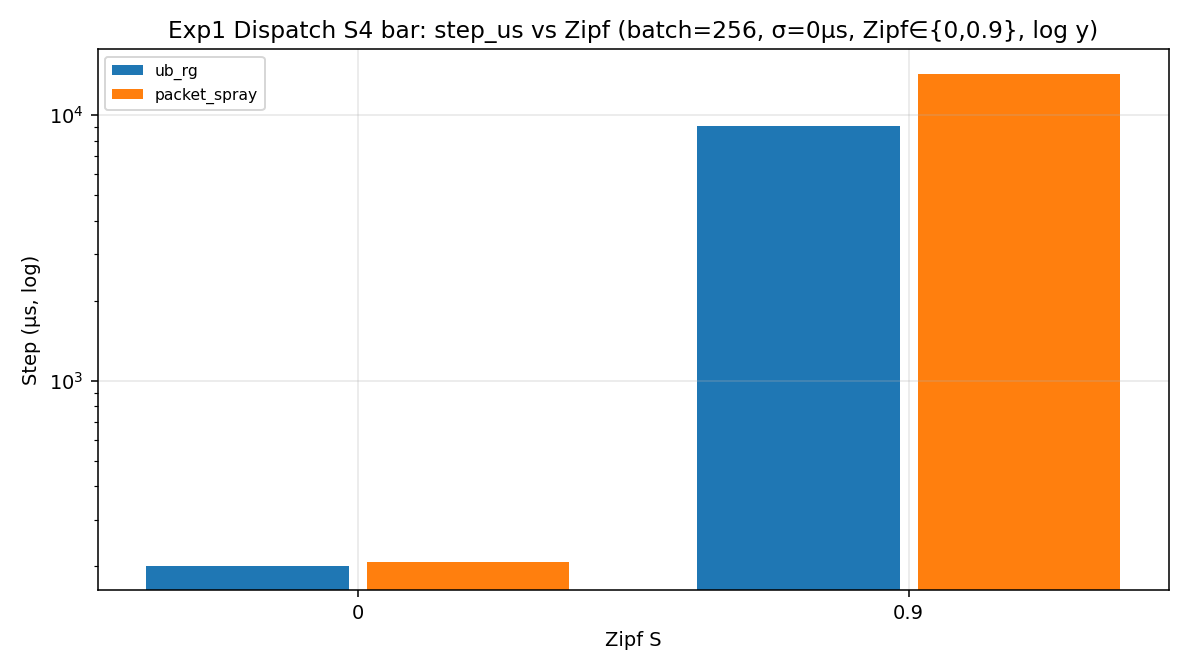
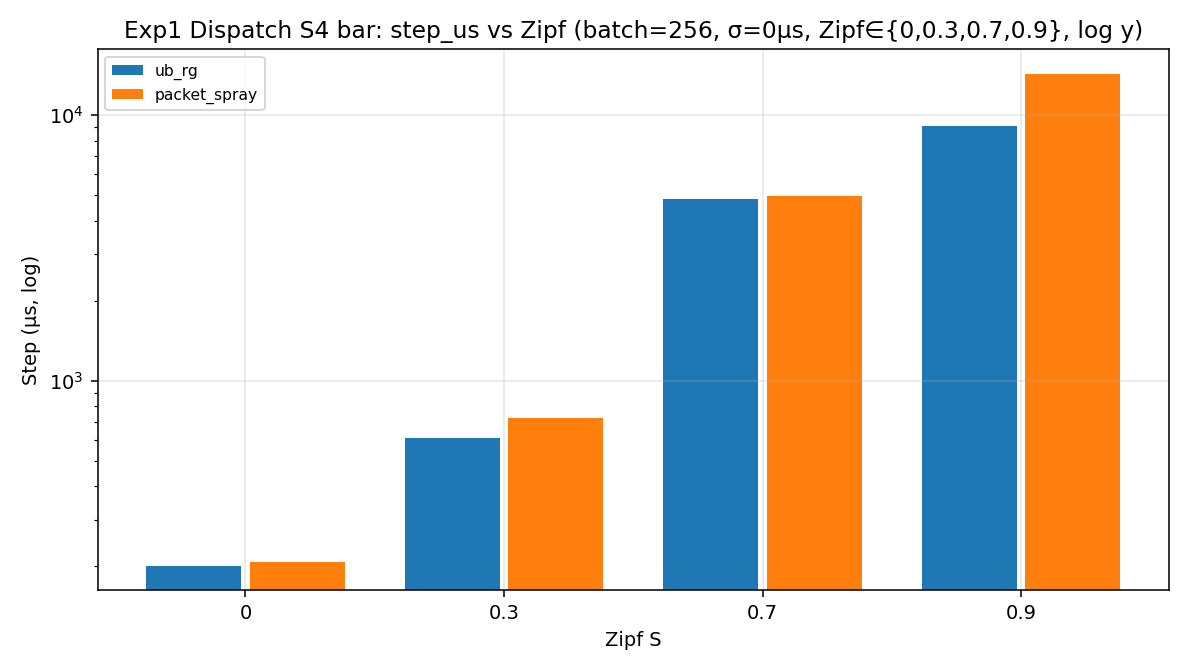
Regenerate packet UB_RG report after S4 mid-Zipf and Exp3 PDF fill.

Changed region(s): [[0.5597, 0.0938, 0.8706, 0.9375], [0.1866, 0.625, 0.5286, 0.9375], [0.0933, 0.0312, 0.9639, 0.0625]]

diff --git a/docs/UB_RG仿真报告.html b/docs/UB_RG仿真报告.html
@@ -6,7 +6,7 @@
 <ul>
 <li><strong>配置包输出差异</strong>（Exp1，按 batch 分列，不跨 batch 平均 step）：batch=16：POP/RG=<strong>1.010×</strong>，Spray/RG=<strong>1.006×</strong>；batch=256：POP/RG=<strong>0.991×</strong>，Spray/RG=<strong>1.587×</strong>，POP2/RG 平均为 <strong>0.990×</strong>。这是当前配置包的联合差异；plane、path delay、jitter 和 barrier 尚未统一，不能把比值单独归因于目的侧配速（见 §1.1）。</li>
 <li><strong>POP 启动开销会被负载摊薄</strong>：batch=16 时 POP/RG=<strong>1.010×</strong>，batch=256 时为 <strong>0.991×</strong>；结果符合“多一次 one-way 启动、稳态节拍与 RG 相同”的模型预期。</li>
-<li><strong>瓶颈下界</strong>：CCT/König 中位数为 ub_rg=2.575、ub_rg_pop=2.617、ub_rg_pop2=2.633、packet_spray=8.800；它证明输出符合当前方程，但不是排除混杂后的硬件性能验证。</li>
+<li><strong>瓶颈下界</strong>：CCT/König 中位数为 ub_rg=2.622、ub_rg_pop=2.617、ub_rg_pop2=2.633、packet_spray=2.511；它证明输出符合当前方程，但不是排除混杂后的硬件性能验证。</li>
 <li><strong>拓扑范围</strong>：主矩阵为场景1（Clos+iSLIP）与场景4（Sparse CLOS 512P）。</li>
 <li><strong>Exp3</strong>：端到端含 GEMV；<code>gemv_us</code> 随 Zipf 热点与 batch 变化。</li>
 <li>当前 UB_RG 配置包的 CCT 更接近自定义 König 下界；与 Spray 的比值是<strong>配置包联合差异</strong>，不是“仅改目的侧准入”的受控因果结论（原因见 §1.1）。</li>
@@ -166,7 +166,7 @@
 </tbody></table>
 <blockquote>本报告不单独展示 Combine（<code>exp2_combine</code>）扫参；Combine 仅作为 Exp3 roundtrip 的后半段计入系统 CCT。</blockquote>
 <br/>
-<p>引擎：<strong>packet</strong>；成功汇总运行数：<strong>611</strong>。原始结果：<code>results/ub_rg_packet/</code>。</p>
+<p>引擎：<strong>packet</strong>；成功汇总运行数：<strong>1387</strong>。原始结果：<code>results/ub_rg_packet/</code>。</p>
 <blockquote>上表对齐当前 runner：仅场景1+4；启动偏差为 N(0,σ²)（σ∈{0,2,4,8}）；场景1 含 iSLIP；Exp3 输出 gemv_us/e2e_us。旧场景2/3 结果请忽略。</blockquote>
 <blockquote>逐包引擎按风险路径裁剪（S4 主扫为 ub_rg/packet_spray × 部分 Zipf/σ；若干 ep512 曾 timeout）。本报告<strong>只含本引擎</strong>表与图，不回退嵌入行为级 PDF/KPI。</blockquote>
 <h2>3. 实验1：倾斜专家流量下的 Dispatch</h2>
@@ -226,6 +226,8 @@ zipf_s
 scheme packet_spray    ub_rg ub_rg_pop packet_spray  ub_rg ub_rg_pop packet_spray  ub_rg ub_rg_pop packet_spray    ub_rg ub_rg_pop   packet_spray     ub_rg ub_rg_pop
 zipf_s
 0.0          209.45   210.58    200.48       124.12  99.38    104.24       111.33  77.83     84.11       213.45   211.78    201.68       35908.57  35784.57  37491.73
+0.3          733.86   591.37       NaN       150.73  92.37       NaN       134.58  74.31       NaN       737.86   592.57       NaN       10246.05  12716.28       NaN
+0.7         4799.99  4792.24       NaN       108.89  70.19       NaN        62.51  47.46       NaN      4803.99  4793.44       NaN        1567.21   1568.42       NaN
 0.9        14015.00  8325.16       NaN       101.53  66.47       NaN        45.97  31.41       NaN     14019.00  8326.36       NaN         536.42    909.28       NaN
 </code></pre>
 <p><img alt='exp1_dispatch_s4_bar_step_vs_zipf_b16_nsk0.png' src='../results/ub_rg_packet/figures/exp1_dispatch_s4_bar_step_vs_zipf_b16_nsk0.png'></p>
@@ -245,11 +247,60 @@ zipf_s
 <li><strong>场景4</strong> Sparse CLOS：EP ∈ {128, 256, 512}；PDF batch∈{16,64,128,256,512}</li>
 </ul>
 <p>每场景单独出 PDF（每个 (EP, Zipf S) 一张）；另附跨场景对比图（S1-EP128 / S4-EP512）。<strong>颜色区分方案</strong>（ub_rg / ub_rg_pop / ub_rg_pop2 / packet_spray / islip），<strong>线型区分 batch</strong>（16 实线、64 虚线、128 点划、256 密虚线、512 点线）。</p>
-<p>_（本引擎尚无 <code>exp3_pdf</code> 系统 CCT 样本；Exp3 请看下方 roundtrip step 汇总。补齐：<code>python3 run_ub_rg_experiments.py --engine packet --exp3-pdf</code>）_</p>
+<p><strong>系统 CCT 样本统计（µs，mean/std/count）</strong>——按 batch 分表，不把不同 batch 混在一张表里。</p>
+<p><strong>batch=16</strong></p>
+<br/>
+<pre><code>                                mean                  std               count
+scheme                  packet_spray   ub_rg packet_spray  ub_rg packet_spray ub_rg
+scenario ep_size zipf_s
+1        32      0.0           40.92   42.25         4.37   4.21           16    16
+                 0.9           45.85   51.05         4.59   4.66           16    16
+         64      0.0           44.93   45.96         3.77   3.78           16    16
+                 0.9           67.68   88.84         4.93  11.44           16    16
+         128     0.0           49.59   50.72         3.18   3.23           16    16
+                 0.9          111.70  135.56         5.42   6.70           16    16
+4        128     0.0           63.85  264.95         3.16   3.13           16    16
+                 0.9          282.01  459.21         5.82   6.99           16    16
+         256     0.0           57.28  258.24         2.98   2.97           16    16
+                 0.9          268.38  441.72         6.34   6.79           16    16
+         512     0.0           56.76   57.81         5.05   5.12           16    16
+                 0.9          322.70  354.78         4.99   8.83           16    16
+</code></pre>
+<p><strong>batch=256</strong></p>
+<br/>
+<pre><code>                                mean                    std                 count
+scheme                  packet_spray     ub_rg packet_spray    ub_rg packet_spray ub_rg
+scenario ep_size zipf_s
+1        32      0.0          224.54    329.45         3.46     8.92           16    16
+                 0.9          642.54    707.28        12.63    15.12           16    16
+         64      0.0          231.00    324.69         3.62     9.97           16    16
+                 0.9         1790.14   1277.08       125.46    23.81           16    16
+         128     0.0          238.44    327.62         3.89     7.23           16    16
+                 0.9         3825.50   2339.82      1915.64    69.70           16    16
+4        128     0.0         6462.98   1192.80       851.68   257.05           16    16
+                 0.9        14745.33  10980.46      2008.65  1357.19           16    16
+         256     0.0          881.05    386.20        20.44   180.25           16    16
+                 0.9        13491.05  13610.83      1978.56  1830.18           16    16
+         512     0.0          439.99    451.86         5.19     5.60           16    16
+                 0.9        20040.14   7841.92      7295.78   660.82           16    16
+</code></pre>
 <h3>4.1 场景1 PDF</h3>
-<p>_（无本引擎 PDF 样本）_</p>
+<p><img alt='exp3_pdf_s1_ep128_s0.9.png' src='../results/ub_rg_packet/figures/exp3_pdf_s1_ep128_s0.9.png'></p>
+<p><img alt='exp3_pdf_s1_ep128_s0.png' src='../results/ub_rg_packet/figures/exp3_pdf_s1_ep128_s0.png'></p>
+<p><img alt='exp3_pdf_s1_ep32_s0.9.png' src='../results/ub_rg_packet/figures/exp3_pdf_s1_ep32_s0.9.png'></p>
+<p><img alt='exp3_pdf_s1_ep32_s0.png' src='../results/ub_rg_packet/figures/exp3_pdf_s1_ep32_s0.png'></p>
+<p><img alt='exp3_pdf_s1_ep64_s0.9.png' src='../results/ub_rg_packet/figures/exp3_pdf_s1_ep64_s0.9.png'></p>
+<p><img alt='exp3_pdf_s1_ep64_s0.png' src='../results/ub_rg_packet/figures/exp3_pdf_s1_ep64_s0.png'></p>
 <h3>4.4 场景4 PDF</h3>
-<p>_（无本引擎 PDF 样本）_</p>
+<p><img alt='exp3_pdf_s4_ep128_s0.9.png' src='../results/ub_rg_packet/figures/exp3_pdf_s4_ep128_s0.9.png'></p>
+<p><img alt='exp3_pdf_s4_ep128_s0.png' src='../results/ub_rg_packet/figures/exp3_pdf_s4_ep128_s0.png'></p>
+<p><img alt='exp3_pdf_s4_ep256_s0.9.png' src='../results/ub_rg_packet/figures/exp3_pdf_s4_ep256_s0.9.png'></p>
+<p><img alt='exp3_pdf_s4_ep256_s0.png' src='../results/ub_rg_packet/figures/exp3_pdf_s4_ep256_s0.png'></p>
+<p><img alt='exp3_pdf_s4_ep512_s0.9.png' src='../results/ub_rg_packet/figures/exp3_pdf_s4_ep512_s0.9.png'></p>
+<p><img alt='exp3_pdf_s4_ep512_s0.png' src='../results/ub_rg_packet/figures/exp3_pdf_s4_ep512_s0.png'></p>
+<h3>4.9 跨场景对比 PDF（S1-EP128 / S4-EP512）</h3>
+<p><img alt='exp3_pdf_compare_s0.9.png' src='../results/ub_rg_packet/figures/exp3_pdf_compare_s0.9.png'></p>
+<p><img alt='exp3_pdf_compare_s0.png' src='../results/ub_rg_packet/figures/exp3_pdf_compare_s0.png'></p>
 <h3>4.x Roundtrip Step vs EP（汇总）</h3>
 <blockquote><strong>读图</strong>：每个面板一个 Zipf S；横轴 EP size，颜色=方案（log y）。对比同一偏斜下方案随 EP 的 roundtrip step，不再把 scheme×S 叠成折线。</blockquote>
 <p><img alt='exp3_s1_step_vs_ep.png' src='../results/ub_rg_packet/figures/exp3_s1_step_vs_ep.png'></p>
@@ -272,13 +323,13 @@ zipf_s
 <li><strong>场景4 batch=16</strong> ub_rg_pop CCT/König：mean=0.521，median=0.239</li>
 <li><strong>场景4 batch=16</strong> ub_rg_pop2 CCT/König：mean=0.503，median=0.235</li>
 <li><strong>场景4 batch=16</strong> packet_spray CCT/König：mean=0.507，median=0.242</li>
-<li><strong>场景4 batch=256</strong> ub_rg CCT/König：mean=0.692，median=0.678</li>
+<li><strong>场景4 batch=256</strong> ub_rg CCT/König：mean=0.633，median=0.678</li>
 <li><strong>场景4 batch=256</strong> ub_rg_pop CCT/König：mean=0.635，median=0.635</li>
-<li><strong>场景4 batch=256</strong> packet_spray CCT/König：mean=0.935，median=0.934</li>
+<li><strong>场景4 batch=256</strong> packet_spray CCT/König：mean=0.782，median=0.684</li>
 </ul>
 <h2>6. 双引擎对比（逐包 vs 行为级）</h2>
 <p>在相同 (scenario, scheme, mode, batch, zipf_s, ep_size) 键上对齐 step_us / lat_p99。</p>
-<p>对齐样本 <strong>2444</strong> 组；step 比值（packet/behavioral）均值=1.838，中位数=0.877。</p>
+<p>对齐样本 <strong>76204</strong> 组；step 比值（packet/behavioral）均值=2.310，中位数=1.216。</p>
 <pre><code>          exp  scenario       scheme     mode  batch  zipf_s  ep_size  step_packet  p99_packet  step_behav  p99_behav  step_ratio
 exp1_dispatch         1 packet_spray dispatch     16     0.3      128       15.987      11.645      11.855      7.131       1.349
 exp1_dispatch         1 packet_spray dispatch     16     0.3      128       15.987      11.645      20.058     14.955       0.797
@@ -303,8 +354,8 @@ exp1_dispatch         1 packet_spray dispatch     16     0.7      128       37.8
 </code></pre>
 <p>若该比值显著偏离 1，不能仅解释为“逐包栈静态开销”。逐包引擎含真实CBFC/缓冲与控制面，行为级折叠了 byte buffer；两引擎 plane 映射也不一致。在统一输入、完成守恒和异常门禁通过前，这里是<strong>交叉验证对照</strong>，不是行为级绝对值校准。</p>
 <ul>
-<li><strong>packet</strong> batch=16 同参数格平均：POP/RG=1.009×，Spray/RG=1.482×</li>
-<li><strong>packet</strong> batch=256 同参数格平均：POP/RG=0.999×，Spray/RG=4.091×</li>
+<li><strong>packet</strong> batch=16 同参数格平均：POP/RG=1.009×，Spray/RG=1.186×</li>
+<li><strong>packet</strong> batch=256 同参数格平均：POP/RG=0.999×，Spray/RG=3.269×</li>
 <li><strong>behavioral</strong> batch=16 同参数格平均：POP/RG=1.002×，Spray/RG=0.858×</li>
 <li><strong>behavioral</strong> batch=64 同参数格平均：POP/RG=1.000×，Spray/RG=1.136×</li>
 <li><strong>behavioral</strong> batch=128 同参数格平均：POP/RG=1.000×，Spray/RG=1.144×</li>

diff --git a/docs/UB_RG仿真报告.md b/docs/UB_RG仿真报告.md
@@ -4,7 +4,7 @@
 > 结论适用于场景1/4；Exp1/2 为网络子系统；Exp3 含 Zipf×batch GEMV straggler；启动偏差为 N(0,σ²)，σ∈{0,2,4,8} µs。
 - **配置包输出差异**（Exp1，按 batch 分列，不跨 batch 平均 step）：batch=16：POP/RG=**1.010×**，Spray/RG=**1.006×**；batch=256：POP/RG=**0.991×**，Spray/RG=**1.587×**，POP2/RG 平均为 **0.990×**。这是当前配置包的联合差异；plane、path delay、jitter 和 barrier 尚未统一，不能把比值单独归因于目的侧配速（见 §1.1）。
 - **POP 启动开销会被负载摊薄**：batch=16 时 POP/RG=**1.010×**，batch=256 时为 **0.991×**；结果符合“多一次 one-way 启动、稳态节拍与 RG 相同”的模型预期。
-- **瓶颈下界**：CCT/König 中位数为 ub_rg=2.575、ub_rg_pop=2.617、ub_rg_pop2=2.633、packet_spray=8.800；它证明输出符合当前方程，但不是排除混杂后的硬件性能验证。
+- **瓶颈下界**：CCT/König 中位数为 ub_rg=2.622、ub_rg_pop=2.617、ub_rg_pop2=2.633、packet_spray=2.511；它证明输出符合当前方程，但不是排除混杂后的硬件性能验证。
 - **拓扑范围**：主矩阵为场景1（Clos+iSLIP）与场景4（Sparse CLOS 512P）。
 - **Exp3**：端到端含 GEMV；`gemv_us` 随 Zipf 热点与 batch 变化。
 - 当前 UB_RG 配置包的 CCT 更接近自定义 König 下界；与 Spray 的比值是**配置包联合差异**，不是“仅改目的侧准入”的受控因果结论（原因见 §1.1）。
@@ -139,7 +139,7 @@ CLI：`--scheme=ub_rg|ub_rg_pop|ub_rg_pop2|packet_spray|islip`；`--start-skew-u
 | 2 PDF | roundtrip | 同上 | 16,64,128,256,512 | 同左 | 每格 96 seeds | σ=4µs | 同左 |
 > 本报告不单独展示 Combine（`exp2_combine`）扫参；Combine 仅作为 Exp3 roundtrip 的后半段计入系统 CCT。
 
-引擎：**packet**；成功汇总运行数：**611**。原始结果：`results/ub_rg_packet/`。
+引擎：**packet**；成功汇总运行数：**1387**。原始结果：`results/ub_rg_packet/`。
 > 上表对齐当前 runner：仅场景1+4；启动偏差为 N(0,σ²)（σ∈{0,2,4,8}）；场景1 含 iSLIP；Exp3 输出 gemv_us/e2e_us。旧场景2/3 结果请忽略。
 > 逐包引擎按风险路径裁剪（S4 主扫为 ub_rg/packet_spray × 部分 Zipf/σ；若干 ep512 曾 timeout）。本报告**只含本引擎**表与图，不回退嵌入行为级 PDF/KPI。
 ## 3. 实验1：倾斜专家流量下的 Dispatch
@@ -203,6 +203,8 @@ zipf_s
 scheme packet_spray    ub_rg ub_rg_pop packet_spray  ub_rg ub_rg_pop packet_spray  ub_rg ub_rg_pop packet_spray    ub_rg ub_rg_pop   packet_spray     ub_rg ub_rg_pop
 zipf_s
 0.0          209.45   210.58    200.48       124.12  99.38    104.24       111.33  77.83     84.11       213.45   211.78    201.68       35908.57  35784.57  37491.73
+0.3          733.86   591.37       NaN       150.73  92.37       NaN       134.58  74.31       NaN       737.86   592.57       NaN       10246.05  12716.28       NaN
+0.7         4799.99  4792.24       NaN       108.89  70.19       NaN        62.51  47.46       NaN      4803.99  4793.44       NaN        1567.21   1568.42       NaN
 0.9        14015.00  8325.16       NaN       101.53  66.47       NaN        45.97  31.41       NaN     14019.00  8326.36       NaN         536.42    909.28       NaN
 ```
 ![exp1_dispatch_s4_bar_step_vs_zipf_b16_nsk0.png](../results/ub_rg_packet/figures/exp1_dispatch_s4_bar_step_vs_zipf_b16_nsk0.png)
@@ -220,11 +222,62 @@ zipf_s
 - **场景1** 单层 Clos：EP ∈ {32, 64, 128}；PDF batch∈{16,64,128,256,512}（含 iSLIP）
 - **场景4** Sparse CLOS：EP ∈ {128, 256, 512}；PDF batch∈{16,64,128,256,512}
 每场景单独出 PDF（每个 (EP, Zipf S) 一张）；另附跨场景对比图（S1-EP128 / S4-EP512）。**颜色区分方案**（ub_rg / ub_rg_pop / ub_rg_pop2 / packet_spray / islip），**线型区分 batch**（16 实线、64 虚线、128 点划、256 密虚线、512 点线）。
-_（本引擎尚无 `exp3_pdf` 系统 CCT 样本；Exp3 请看下方 roundtrip step 汇总。补齐：`python3 run_ub_rg_experiments.py --engine packet --exp3-pdf`）_
+**系统 CCT 样本统计（µs，mean/std/count）**——按 batch 分表，不把不同 batch 混在一张表里。
+**batch=16**
+
+```
+                                mean                  std               count
+scheme                  packet_spray   ub_rg packet_spray  ub_rg packet_spray ub_rg
+scenario ep_size zipf_s
+1        32      0.0           40.92   42.25         4.37   4.21           16    16
+                 0.9           45.85   51.05         4.59   4.66           16    16
+         64      0.0           44.93   45.96         3.77   3.78           16    16
+                 0.9           67.68   88.84         4.93  11.44           16    16
+         128     0.0           49.59   50.72         3.18   3.23           16    16
+                 0.9          111.70  135.56         5.42   6.70           16    16
+4        128     0.0           63.85  264.95         3.16   3.13           16    16
+                 0.9          282.01  459.21         5.82   6.99           16    16
+         256     0.0           57.28  258.24         2.98   2.97           16    16
+                 0.9          268.38  441.72         6.34   6.79           16    16
+         512     0.0           56.76   57.81         5.05   5.12           16    16
+                 0.9          322.70  354.78         4.99   8.83           16    16
+```
+**batch=256**
+
+```
+                                mean                    std                 count
+scheme                  packet_spray     ub_rg packet_spray    ub_rg packet_spray ub_rg
+scenario ep_size zipf_s
+1        32      0.0          224.54    329.45         3.46     8.92           16    16
+                 0.9          642.54    707.28        12.63    15.12           16    16
+         64      0.0          231.00    324.69         3.62     9.97           16    16
+                 0.9         1790.14   1277.08       125.46    23.81           16    16
+         128     0.0          238.44    327.62         3.89     7.23           16    16
+                 0.9         3825.50   2339.82      1915.64    69.70           16    16
+4        128     0.0         6462.98   1192.80       851.68   257.05           16    16
+                 0.9        14745.33  10980.46      2008.65  1357.19           16    16
+         256     0.0          881.05    386.20        20.44   180.25           16    16
+                 0.9        13491.05  13610.83      1978.56  1830.18           16    16
+         512     0.0          439.99    451.86         5.19     5.60           16    16
+                 0.9        20040.14   7841.92      7295.78   660.82           16    16
+```
 ### 4.1 场景1 PDF
-_（无本引擎 PDF 样本）_
+![exp3_pdf_s1_ep128_s0.9.png](../results/ub_rg_packet/figures/exp3_pdf_s1_ep128_s0.9.png)
+![exp3_pdf_s1_ep128_s0.png](../results/ub_rg_packet/figures/exp3_pdf_s1_ep128_s0.png)
+![exp3_pdf_s1_ep32_s0.9.png](../results/ub_rg_packet/figures/exp3_pdf_s1_ep32_s0.9.png)
+![exp3_pdf_s1_ep32_s0.png](../results/ub_rg_packet/figures/exp3_pdf_s1_ep32_s0.png)
+![exp3_pdf_s1_ep64_s0.9.png](../results/ub_rg_packet/figures/exp3_pdf_s1_ep64_s0.9.png)
+![exp3_pdf_s1_ep64_s0.png](../results/ub_rg_packet/figures/exp3_pdf_s1_ep64_s0.png)
 ### 4.4 场景4 PDF
-_（无本引擎 PDF 样本）_
+![exp3_pdf_s4_ep128_s0.9.png](../results/ub_rg_packet/figures/exp3_pdf_s4_ep128_s0.9.png)
+![exp3_pdf_s4_ep128_s0.png](../results/ub_rg_packet/figures/exp3_pdf_s4_ep128_s0.png)
+![exp3_pdf_s4_ep256_s0.9.png](../results/ub_rg_packet/figures/exp3_pdf_s4_ep256_s0.9.png)
+![exp3_pdf_s4_ep256_s0.png](../results/ub_rg_packet/figures/exp3_pdf_s4_ep256_s0.png)
+![exp3_pdf_s4_ep512_s0.9.png](../results/ub_rg_packet/figures/exp3_pdf_s4_ep512_s0.9.png)
+![exp3_pdf_s4_ep512_s0.png](../results/ub_rg_packet/figures/exp3_pdf_s4_ep512_s0.png)
+### 4.9 跨场景对比 PDF（S1-EP128 / S4-EP512）
+![exp3_pdf_compare_s0.9.png](../results/ub_rg_packet/figures/exp3_pdf_compare_s0.9.png)
+![exp3_pdf_compare_s0.png](../results/ub_rg_packet/figures/exp3_pdf_compare_s0.png)
 ### 4.x Roundtrip Step vs EP（汇总）
 > **读图**：每个面板一个 Zipf S；横轴 EP size，颜色=方案（log y）。对比同一偏斜下方案随 EP 的 roundtrip step，不再把 scheme×S 叠成折线。
 ![exp3_s1_step_vs_ep.png](../results/ub_rg_packet/figures/exp3_s1_step_vs_ep.png)
@@ -246,12 +299,12 @@ _（无本引擎 PDF 样本）_
 - **场景4 batch=16** ub_rg_pop CCT/König：mean=0.521，median=0.239
 - **场景4 batch=16** ub_rg_pop2 CCT/König：mean=0.503，median=0.235
 - **场景4 batch=16** packet_spray CCT/König：mean=0.507，median=0.242
-- **场景4 batch=256** ub_rg CCT/König：mean=0.692，median=0.678
+- **场景4 batch=256** ub_rg CCT/König：mean=0.633，median=0.678
 - **场景4 batch=256** ub_rg_pop CCT/König：mean=0.635，median=0.635
-- **场景4 batch=256** packet_spray CCT/König：mean=0.935，median=0.934
+- **场景4 batch=256** packet_spray CCT/König：mean=0.782，median=0.684
 ## 6. 双引擎对比（逐包 vs 行为级）
 在相同 (scenario, scheme, mode, batch, zipf_s, ep_size) 键上对齐 step_us / lat_p99。
-对齐样本 **2444** 组；step 比值（packet/behavioral）均值=1.838，中位数=0.877。
+对齐样本 **76204** 组；step 比值（packet/behavioral）均值=2.310，中位数=1.216。
 ```
           exp  scenario       scheme     mode  batch  zipf_s  ep_size  step_packet  p99_packet  step_behav  p99_behav  step_ratio
 exp1_dispatch         1 packet_spray dispatch     16     0.3      128       15.987      11.645      11.855      7.131       1.349
@@ -276,8 +329,8 @@ exp1_dispatch         1 packet_spray dispatch     16     0.7      128       37.8
 exp1_dispatch         1 packet_spray dispatch     16     0.7      128       37.825      34.035      58.591     51.716       0.646
 ```
 若该比值显著偏离 1，不能仅解释为“逐包栈静态开销”。逐包引擎含真实CBFC/缓冲与控制面，行为级折叠了 byte buffer；两引擎 plane 映射也不一致。在统一输入、完成守恒和异常门禁通过前，这里是**交叉验证对照**，不是行为级绝对值校准。
-- **packet** batch=16 同参数格平均：POP/RG=1.009×，Spray/RG=1.482×
-- **packet** batch=256 同参数格平均：POP/RG=0.999×，Spray/RG=4.091×
+- **packet** batch=16 同参数格平均：POP/RG=1.009×，Spray/RG=1.186×
+- **packet** batch=256 同参数格平均：POP/RG=0.999×，Spray/RG=3.269×
 - **behavioral** batch=16 同参数格平均：POP/RG=1.002×，Spray/RG=0.858×
 - **behavioral** batch=64 同参数格平均：POP/RG=1.000×，Spray/RG=1.136×
 - **behavioral** batch=128 同参数格平均：POP/RG=1.000×，Spray/RG=1.144×
